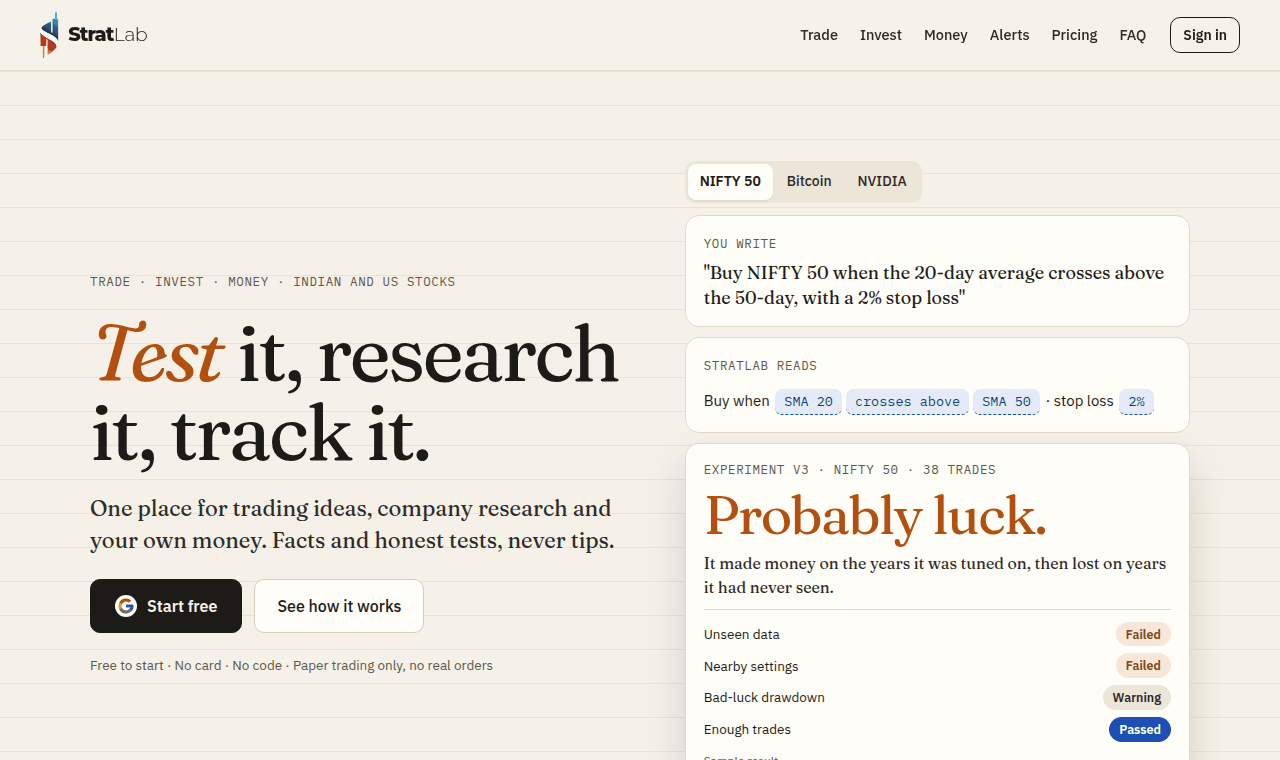
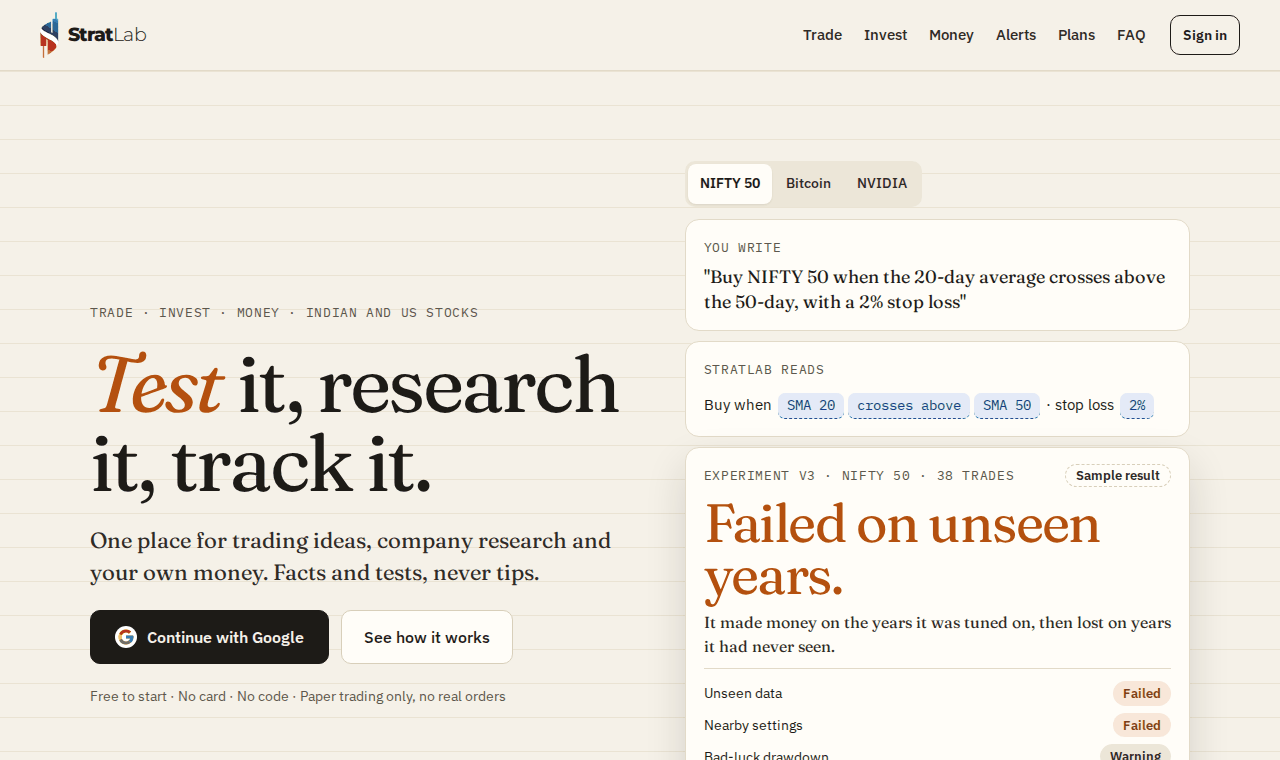
README: retake every screenshot from the current app (landing, space homes, verdict, deep dive and the rest)
The landing picture still showed the old logo and "Probably luck."; the verdict and deep-dive pictures were from 2 Oct.
docs-shots.spec.ts now also takes the verdict and deep-dive pictures, and waits for the Invest home's current heading.
All from the fake world's synthetic data.

Claude-Session: https://claude.ai/code/session_01QCGeNSveSSmNFs12Q4F29N

diff --git a/stratlab/frontend/scripts/docs-shots.spec.ts b/stratlab/frontend/scripts/docs-shots.spec.ts
@@ -2,10 +2,14 @@ import { expect, test, type Browser, type Page } from "@playwright/test";
 import { resolve } from "node:path";
 
 // The README's screenshots, light and dark, 1280px wide: the landing page (top, its Money section, plans), the three space
-// homes, Positioning, an options paper session, a company page's price chart, ETF vs NAV and F&O changes. Run with scripts/docs-shots.config.ts (see there); files land in
+// homes, Positioning, an options paper session, a company page's price chart, ETF vs NAV and F&O changes, and (into
+// docs/images) a verdict page and a company deep dive. Run with scripts/docs-shots.config.ts (see there); files land in
 // docs/screenshots. The fake world's data is synthetic, so nothing here is real market data.
 const API = process.env.E2E_API ?? "http://127.0.0.1:8765";
 const OUT = resolve(process.env.DOCS_SHOTS_DIR ?? "../../docs/screenshots");
+// the verdict page and a company deep dive, which the README shows from docs/images
+const IMAGES = resolve(process.env.DOCS_IMAGES_DIR ?? "../../docs/images");
+const notebooks: string[] = [];
 const THEMES = ["light", "dark"] as const;
 type Theme = (typeof THEMES)[number];
 const admin = { Authorization: "Bearer admin-token" };
@@ -54,6 +58,7 @@ test.beforeAll(async ({ request }) => {
   for (const [name, inst, fast, slow] of [["Trend follower on Bitcoin", "CRYPTO:BTC-USD", 10, 30], ["EMA 20/50 on Ethereum", "CRYPTO:ETH-USD", 20, 50]] as const) {
     const nb = await post("/notebooks", { name, question: "Does the cross hold up after costs?", strategy: cross(name, fast, slow), instrument: inst });
     await post(`/notebooks/${nb.id}/experiments`, { days: 1500 });
+    notebooks.push(nb.id);
   }
   await post("/live/sessions", { strategy: cross("Trend follower on Bitcoin", 10, 30), instrument: "CRYPTO:BTC-USD" });
 });
@@ -71,7 +76,7 @@ for (const theme of THEMES) {
     await ctx.close();
   });
 
-  for (const [space, path, ready] of [["trade", "/trade", "Straddles, strangles"], ["invest", "/invest", "Which company do you want to look into?"],
+  for (const [space, path, ready] of [["trade", "/trade", "Straddles, strangles"], ["invest", "/invest", "Your research desk"],
     ["money", "/money", "Your money"]] as const) {
     test(`${space} home, ${theme}`, async ({ browser }) => {
       const { ctx, page } = await open(browser, theme, { signedIn: true, space });
@@ -115,6 +120,24 @@ for (const theme of THEMES) {
       await ctx.close();
     });
   }
+
+  test(`verdict, ${theme}`, async ({ browser }) => {
+    const { ctx, page } = await open(browser, theme, { signedIn: true, space: "trade", height: 900 });
+    await page.goto(`/n/${notebooks[1]}/e/1`);
+    await expect(page.getByText("Unseen data").first()).toBeVisible({ timeout: 30_000 });
+    await settle(page);
+    await page.screenshot({ path: `${IMAGES}/verdict-${theme}.png` });
+    await ctx.close();
+  });
+
+  test(`deep dive, ${theme}`, async ({ browser }) => {
+    const { ctx, page } = await open(browser, theme, { signedIn: true, space: "invest", height: 900 });
+    await page.goto("/research/IN/RELIANCE/deep");
+    await expect(page.getByText(/Sales/).first()).toBeVisible({ timeout: 30_000 });
+    await settle(page);
+    await page.screenshot({ path: `${IMAGES}/deepdive-${theme}.png` });
+    await ctx.close();
+  });
 
   test(`options session, ${theme}`, async ({ browser }) => {
     const { ctx, page } = await open(browser, theme, { signedIn: true, space: "trade", height: 1120 });

diff --git a/README.md b/README.md
@@ -79,7 +79,7 @@ The full list, with where each thing lives in the app, is in **[docs/FEATURES.md
 
 <picture>
   <source media="(prefers-color-scheme: dark)" srcset="docs/images/verdict-dark.png">
-  <img alt="A verdict page: 'No edge here', with four honesty checks: unseen data, nearby settings, bad-luck drawdown and enough trades" src="docs/images/verdict-light.png">
+  <img alt="A verdict page: the result against buy and hold after costs, with four honesty checks: unseen data, nearby settings, bad-luck drawdown and enough trades" src="docs/images/verdict-light.png">
 </picture>
 
 **Invest: research**
